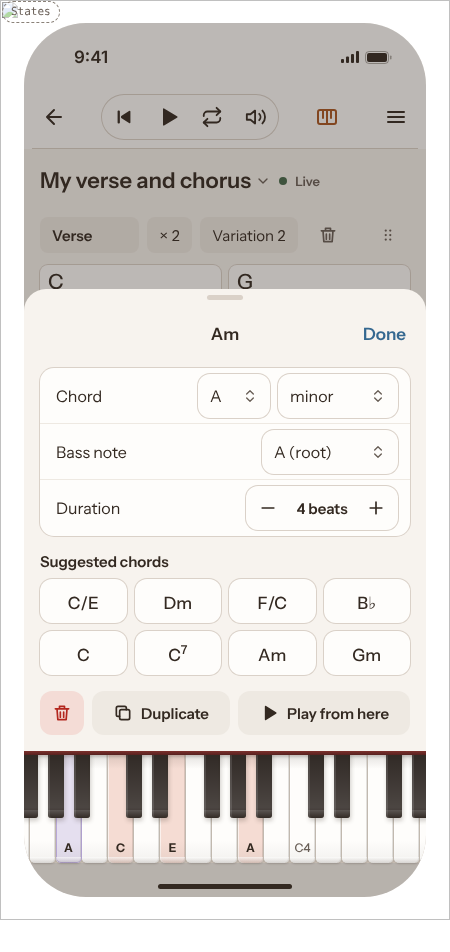
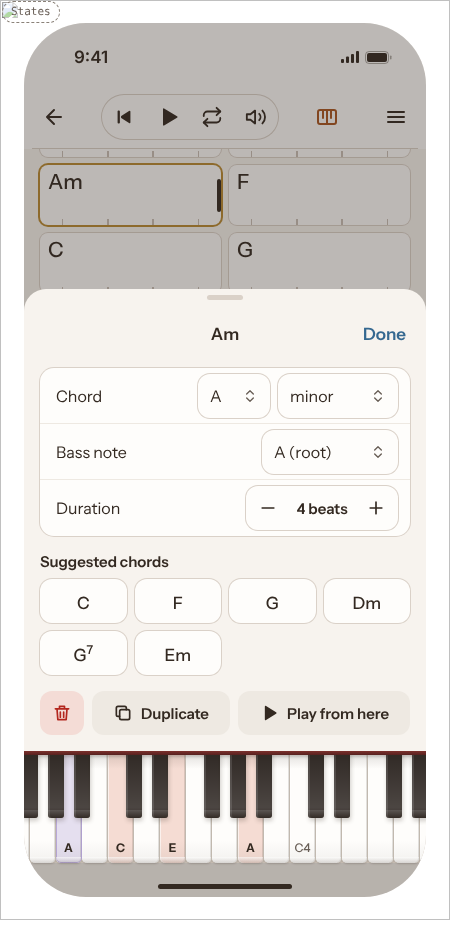
Chord player board: a phone's chord comes up before its sheet rises, as the app
Claude-Session: https://claude.ai/code/session_01BrtnH1Yf7S8aVU4w6rFSCU

diff --git a/.scratch/r39/canvas/practice/project/ChordPlayer.dc.html b/.scratch/r39/canvas/practice/project/ChordPlayer.dc.html
@@ -198,6 +198,8 @@ const SG = (st, set, list) => Object.fromEntries(list.map(([k, opts, d]) => [k +
           ticks: Array.from({ length: Math.max(sum, 1) }, (_, k) => ({ bg: now && k === beatNow ? '#332921' : '#B9AEA3', w: k === 0 ? '10px' : '6px' })),
           wrong, wrongTip: 'Bar ' + (bi + 1) + ' holds ' + sum + ' beats, not 4: tap to set its chords’ lengths',
           bg: now ? '#EDC684' : !st.playing && (slot || {}).si === si && (slot || {}).bi === bi ? '#F6E7C8' : 'transparent', edge: bi % 4 === 3 ? '0' : '1px', pick: () => set({ sheet: 'chord', sel: [si, bi], selC: 0 }) }; }) }));
+    // a phone's chord comes up under the bar before its sheet rises (the app's `reveal`), 16 under the chart's top
+    const REVEAL = (e) => { const t = e && e.currentTarget, m = t && t.closest && t.closest('main'); if (!m || m.clientWidth > 600) return; const k = (m.getBoundingClientRect().height / m.offsetHeight) || 1; m.scrollTop += (t.getBoundingClientRect().top - m.getBoundingClientRect().top) / k - 16; };
     const selB = (st.sel ? SECS[st.sel[0]][3][st.sel[1]] : SECS[0][3][0]) || ['C'], selCi = st.selC ?? 0, selSym = selB[selCi] || selB[0];
     const selLen = st.sel ? lens(st.sel[0], st.sel[1], selB)[selCi] : 4;
     const setLen = (d) => { if (!st.sel) return; const k = st.sel[0] + ':' + st.sel[1], cur = lens(st.sel[0], st.sel[1], selB).slice(); cur[selCi] = Math.max(1, Math.min(8, cur[selCi] + d)); set({ len: { ...LEN, [k]: cur } }); };
@@ -222,7 +224,7 @@ const SG = (st, set, list) => Object.fromEntries(list.map(([k, opts, d]) => [k +
             ticks: Array.from({ length: L }, (_, k) => ({ bg: now && f0 + k === beatNow ? '#332921' : '#C9BFB5', h: now && f0 + k === beatNow ? '10px' : '6px' })),
             picked, bg: now ? '#F6E7C8' : '#FEFDFB', ring: now || picked ? '0 0 0 2px #B98A32' : '0 0 0 1px #DAD1C8',
             wrong: wrong && ci === cs.length - 1, wrongTip: 'Bar ' + (bi + 1) + ' holds ' + sum + ' beats, not 4',
-            tap: (e) => set(picked ? { sheet: 'chord', sel: [si, bi], selC: ci, selB59: [si, bi, ci], pop: null, chordPos: ANCHOR(e, 420) } : { sel: [si, bi], selC: ci, selB59: [si, bi, ci] }) });
+            tap: (e) => { if (picked) REVEAL(e); set(picked ? { sheet: 'chord', sel: [si, bi], selC: ci, selB59: [si, bi, ci], pop: null, chordPos: ANCHOR(e, 420) } : { sel: [si, bi], selC: ci, selB59: [si, bi, ci] }); } });
           from += L; }); });
       return { m, name, rep: '× ' + rep, vari: 'Variation ' + (VARS[si] ?? 1), tag: follow ? (tagLine(TAGS[si] || { mains: [] }) || 'Genos') : '', tagFg: tagLine(TAGS[si] || { mains: [] }) ? '#332921' : '#685E56', tagOn: follow, openTag: (e) => set({ sheet: 'tag', tagAt: si, tagPos: ANCHOR({ currentTarget: e.currentTarget.firstElementChild }, 460) }), openSec: (e) => set({ sheet: 'sec', secAt: si, pop: null, secPos: ANCHOR(e, 380) }), boxes,
         repUp: () => editSecs((x) => { x[si][2] = (x[si][2] % 4) + 1; }), varUp: () => set({ vars: SECS.map((_, i) => (i === si ? ((VARS[i] ?? 1) % 4) + 1 : VARS[i] ?? 1)), draft: true }),

diff --git a/.scratch/r39/canvas/practice/project/ChordPlayerLaptop.dc.html b/.scratch/r39/canvas/practice/project/ChordPlayerLaptop.dc.html
@@ -199,6 +199,8 @@ const SG = (st, set, list) => Object.fromEntries(list.map(([k, opts, d]) => [k +
           ticks: Array.from({ length: Math.max(sum, 1) }, (_, k) => ({ bg: now && k === beatNow ? '#332921' : '#B9AEA3', w: k === 0 ? '10px' : '6px' })),
           wrong, wrongTip: 'Bar ' + (bi + 1) + ' holds ' + sum + ' beats, not 4: tap to set its chords’ lengths',
           bg: now ? '#EDC684' : !st.playing && (slot || {}).si === si && (slot || {}).bi === bi ? '#F6E7C8' : 'transparent', edge: bi % 4 === 3 ? '0' : '1px', pick: () => set({ sheet: 'chord', sel: [si, bi], selC: 0 }) }; }) }));
+    // a phone's chord comes up under the bar before its sheet rises (the app's `reveal`), 16 under the chart's top
+    const REVEAL = (e) => { const t = e && e.currentTarget, m = t && t.closest && t.closest('main'); if (!m || m.clientWidth > 600) return; const k = (m.getBoundingClientRect().height / m.offsetHeight) || 1; m.scrollTop += (t.getBoundingClientRect().top - m.getBoundingClientRect().top) / k - 16; };
     const selB = (st.sel ? SECS[st.sel[0]][3][st.sel[1]] : SECS[0][3][0]) || ['C'], selCi = st.selC ?? 0, selSym = selB[selCi] || selB[0];
     const selLen = st.sel ? lens(st.sel[0], st.sel[1], selB)[selCi] : 4;
     const setLen = (d) => { if (!st.sel) return; const k = st.sel[0] + ':' + st.sel[1], cur = lens(st.sel[0], st.sel[1], selB).slice(); cur[selCi] = Math.max(1, Math.min(8, cur[selCi] + d)); set({ len: { ...LEN, [k]: cur } }); };
@@ -223,7 +225,7 @@ const SG = (st, set, list) => Object.fromEntries(list.map(([k, opts, d]) => [k +
             ticks: Array.from({ length: L }, (_, k) => ({ bg: now && f0 + k === beatNow ? '#332921' : '#C9BFB5', h: now && f0 + k === beatNow ? '10px' : '6px' })),
             picked, bg: now ? '#F6E7C8' : '#FEFDFB', ring: now || picked ? '0 0 0 2px #B98A32' : '0 0 0 1px #DAD1C8',
             wrong: wrong && ci === cs.length - 1, wrongTip: 'Bar ' + (bi + 1) + ' holds ' + sum + ' beats, not 4',
-            tap: (e) => set(picked ? { sheet: 'chord', sel: [si, bi], selC: ci, selB59: [si, bi, ci], pop: null, chordPos: ANCHOR(e, 420) } : { sel: [si, bi], selC: ci, selB59: [si, bi, ci] }) });
+            tap: (e) => { if (picked) REVEAL(e); set(picked ? { sheet: 'chord', sel: [si, bi], selC: ci, selB59: [si, bi, ci], pop: null, chordPos: ANCHOR(e, 420) } : { sel: [si, bi], selC: ci, selB59: [si, bi, ci] }); } });
           from += L; }); });
       return { m, name, rep: '× ' + rep, vari: 'Variation ' + (VARS[si] ?? 1), tag: follow ? (tagLine(TAGS[si] || { mains: [] }) || 'Genos') : '', tagFg: tagLine(TAGS[si] || { mains: [] }) ? '#332921' : '#685E56', tagOn: follow, openTag: (e) => set({ sheet: 'tag', tagAt: si, tagPos: ANCHOR({ currentTarget: e.currentTarget.firstElementChild }, 460) }), openSec: (e) => set({ sheet: 'sec', secAt: si, pop: null, secPos: ANCHOR(e, 380) }), boxes,
         repUp: () => editSecs((x) => { x[si][2] = (x[si][2] % 4) + 1; }), varUp: () => set({ vars: SECS.map((_, i) => (i === si ? ((VARS[i] ?? 1) % 4) + 1 : VARS[i] ?? 1)), draft: true }),

diff --git a/.scratch/r39/canvas/r58_chordplayer.py b/.scratch/r39/canvas/r58_chordplayer.py
@@ -29,6 +29,8 @@ r'''    const beatNow = st.playing ? ((st.pos ?? 4) % 2) * 2 : -1;
           ticks: Array.from({ length: Math.max(sum, 1) }, (_, k) => ({ bg: now && k === beatNow ? '#332921' : '#B9AEA3', w: k === 0 ? '10px' : '6px' })),
           wrong, wrongTip: 'Bar ' + (bi + 1) + ' holds ' + sum + ' beats, not 4: tap to set its chords’ lengths',
           bg: now ? '#EDC684' : !st.playing && (slot || {}).si === si && (slot || {}).bi === bi ? '#F6E7C8' : 'transparent', edge: bi % 4 === 3 ? '0' : '1px', pick: () => set({ sheet: 'chord', sel: [si, bi], selC: 0 }) }; }) }));
+    // a phone's chord comes up under the bar before its sheet rises (the app's `reveal`), 16 under the chart's top
+    const REVEAL = (e) => { const t = e && e.currentTarget, m = t && t.closest && t.closest('main'); if (!m || m.clientWidth > 600) return; const k = (m.getBoundingClientRect().height / m.offsetHeight) || 1; m.scrollTop += (t.getBoundingClientRect().top - m.getBoundingClientRect().top) / k - 16; };
     const selB = (st.sel ? SECS[st.sel[0]][3][st.sel[1]] : SECS[0][3][0]) || ['C'], selCi = st.selC ?? 0, selSym = selB[selCi] || selB[0];
     const selLen = st.sel ? lens(st.sel[0], st.sel[1], selB)[selCi] : 4;
     const setLen = (d) => { if (!st.sel) return; const k = st.sel[0] + ':' + st.sel[1], cur = lens(st.sel[0], st.sel[1], selB).slice(); cur[selCi] = Math.max(1, Math.min(8, cur[selCi] + d)); set({ len: { ...LEN, [k]: cur } }); };
@@ -143,7 +145,7 @@ CP58 = CP58.replace("    return { ...common(st, set), draftOn:", r"""    const S
             ticks: Array.from({ length: L }, (_, k) => ({ bg: now && f0 + k === beatNow ? '#332921' : '#C9BFB5', h: now && f0 + k === beatNow ? '10px' : '6px' })),
             picked, bg: now ? '#F6E7C8' : '#FEFDFB', ring: now || picked ? '0 0 0 2px #B98A32' : '0 0 0 1px #DAD1C8',
             wrong: wrong && ci === cs.length - 1, wrongTip: 'Bar ' + (bi + 1) + ' holds ' + sum + ' beats, not 4',
-            tap: (e) => set(picked ? { sheet: 'chord', sel: [si, bi], selC: ci, selB59: [si, bi, ci], pop: null, chordPos: ANCHOR(e, 420) } : { sel: [si, bi], selC: ci, selB59: [si, bi, ci] }) });
+            tap: (e) => { if (picked) REVEAL(e); set(picked ? { sheet: 'chord', sel: [si, bi], selC: ci, selB59: [si, bi, ci], pop: null, chordPos: ANCHOR(e, 420) } : { sel: [si, bi], selC: ci, selB59: [si, bi, ci] }); } });
           from += L; }); });
       return { m, name, rep: '× ' + rep, vari: 'Variation ' + (VARS[si] ?? 1), tag: follow ? (tagLine(TAGS[si] || { mains: [] }) || 'Genos') : '', tagFg: tagLine(TAGS[si] || { mains: [] }) ? '#332921' : '#685E56', tagOn: follow, openTag: (e) => set({ sheet: 'tag', tagAt: si, tagPos: ANCHOR({ currentTarget: e.currentTarget.firstElementChild }, 460) }), openSec: (e) => set({ sheet: 'sec', secAt: si, pop: null, secPos: ANCHOR(e, 380) }), boxes,
         repUp: () => editSecs((x) => { x[si][2] = (x[si][2] % 4) + 1; }), varUp: () => set({ vars: SECS.map((_, i) => (i === si ? ((VARS[i] ?? 1) % 4) + 1 : VARS[i] ?? 1)), draft: true }),

diff --git a/.scratch/r39/plan/practice-chord-player.md b/.scratch/r39/plan/practice-chord-player.md
@@ -7,7 +7,7 @@ each chord tapped to change it, the keys showing what sounds, nothing on screen 
 
 - **A laptop's sheet popover never runs off the screen** (the loop, 2026-11-28). Why: nothing cut at any width (craft-details, 5), measured at 1024×768: the chord's popover under a chord in the chart's middle stood 423 tall where its room was 329, Delete and Play from here past the screen's foot; the height it holds while open (`holdTallest`) was capped by a phone sheet's room, which beat the popover's own `max-h`. A popover's held height is capped by its own room now (`holdTallestPopped`), so it ends 16 over the foot and scrolls inside; and where the room under a chord is short of its sheet's 448, the chart brings the chord up first (as a phone's sheet does), so the sheet opens whole. App (the cap: every sheet that opens as a popover).
 - **Suggested chords, the app's: the key's, likeliest first, without the chord picked** (the loop, 2026-11-28). Why: port from the app's model (`likeliestChords`: I, IV, V, vi, ii, V7, iii), measured: the board suggested a fixed eight from another key (C/E, F/C, B♭, Gm in C major) and the chord picked among them (Am under Am). It suggests C, F, G, Am, Dm, G7, Em less the chord picked now, as the app.
-- **A phone's chord sheet stands on the keys** (the loop, 2026-11-28). Why: a picture does the reading (scan-first 3), and Chordify's chord sheet (`piano-data/reference-apps/chordify/017-player-chord-detail-sheet-csharpm7.png`) leads with the chord on the keys. Ours rose over the docked keys, so a chord was changed with its keys hidden under the scrim. On a phone the sheet and its scrim now end at the keys' top (the board's 146 over the foot, the app's `KEYS_PX`), the keys stay lit with the chord as it changes and still play when tapped, and the card's foot is 16 (the keys hold the home indicator); hidden keys put it back at the screen's foot. On its side it keeps its head and scrolls its body above the keys. A laptop's sheet is a popover at the chord and is unchanged. Board and app (`SheetContent`'s `foot`).
+- **A phone's chord sheet stands on the keys** (the loop, 2026-11-28). Why: a picture does the reading (scan-first 3), and Chordify's chord sheet (`piano-data/reference-apps/chordify/017-player-chord-detail-sheet-csharpm7.png`) leads with the chord on the keys. Ours rose over the docked keys, so a chord was changed with its keys hidden under the scrim. On a phone the sheet and its scrim now end at the keys' top (the board's 146 over the foot, the app's `KEYS_PX`), the keys stay lit with the chord as it changes and still play when tapped, and the card's foot is 16 (the keys hold the home indicator); hidden keys put it back at the screen's foot. On its side it keeps its head and scrolls its body above the keys. Before it rises the chord comes up 16 under the chart's top (the app's `reveal`, the board's `REVEAL`), so the chord picked is never under its own sheet. A laptop's sheet is a popover at the chord and is unchanged. Board and app (`SheetContent`'s `foot`).
 - **The app's songs in the library** (owner, 2026-11-28, playing Voi cânta bunătatea Ta in the Chord player, which its library did not hold). Why: the library held one song while the app has 85 with chord charts; a musician opens a song's chords to play along. The library's Songs are now the app's songs with chords by collection (chips, as Progressions: Songs to learn, Bozhe, spasibo, Called to Play, Called to Play 2, Hymns, Worship songs, Gorshkov's songs), each opened as a sheet from its chart (`chartToSheet`): its sections by kind (an Ending is the sheet's Outro), each chord on the beat nearest where it is written, a push shorter than a beat falling to its neighbour, as a chord chart reads; the charts kept as sheets alone stand with the worship songs. A name's size reckons its raised part at its 12px floor (`chord-fit`, the smaller of two sizes), and the columns are resolved as the grid gives them, so every tile is checked against its real width. App and board.
 - **The library on one edge; a short beat's name at the chart's size** (the loop, 2026-11-28). Why: the library's heads stood 4 in, its chips on the edge and each row's words 8 in, three left edges in one column (`scan-first` 1); now heads, chips and words share the column's edge and a row's wash reaches 8 past it, as a list's on iOS. The board draws the song shelves as the app does, with chips and each shelf's songs. On a laptop a one-beat B♭maj⁷ beside four-beat tiles was set at the 12 floor while its neighbours stood at 30: a row's columns now give each name the room for the chart's 21 first (`sheet-columns.ts`, AIM), in fewer bars a row where that needs it, down to two (a 744 tablet's verse takes two bars a row, every name at 21, where four floored half of them at 12); only where two bars cannot hold them is the floor taken, then a bar a row. App and board.
 - **The keys lower on a phone on its side** (the loop, 2026-11-28). Why: at 852×393 the keys' 112 left the chart a row and a half under the header, the name and the section's head; on its side they dock 80 high (`KEYS_PX.side`), the chart two full rows. App; the board draws no side size.

diff --git a/.scratch/r39/canvas/CHANGES.md b/.scratch/r39/canvas/CHANGES.md
@@ -8,6 +8,8 @@ the next publish sends every pending board and the lines get the new version.
 
 ## Pending
 
+- 2026-11-28 · COMMIT · a phone's chord comes up 16 under the chart's top before its sheet rises, as the app's reveal (the chord picked was hidden under its own sheet) · ChordPlayer · pending
+
 - 2026-11-28 · b335b44d · a chord's Suggested chords are the app's: the key's chords likeliest first (C F G Am Dm G7 Em) less the chord picked · ChordPlayer, ChordPlayerLaptop · pending
 
 ## Changes
